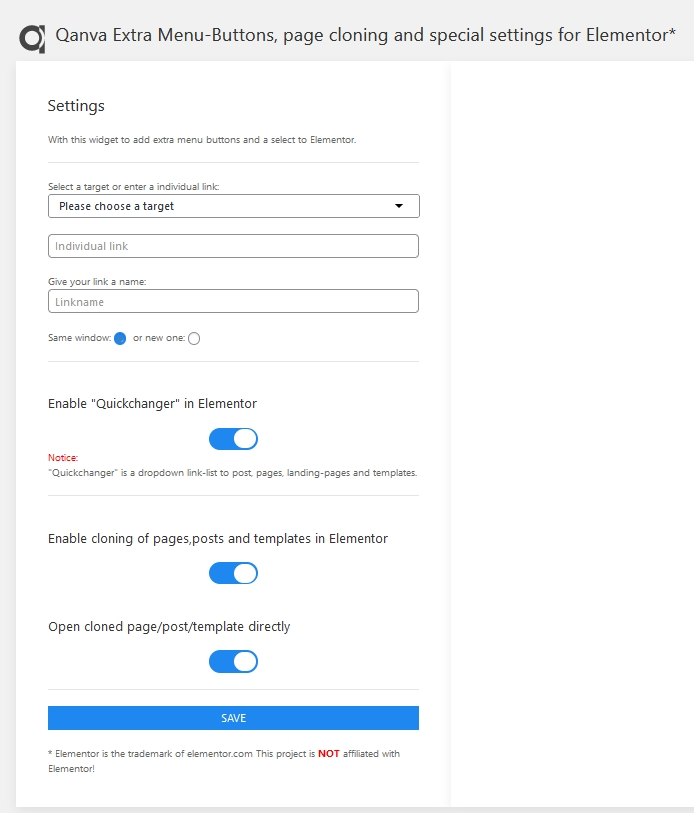
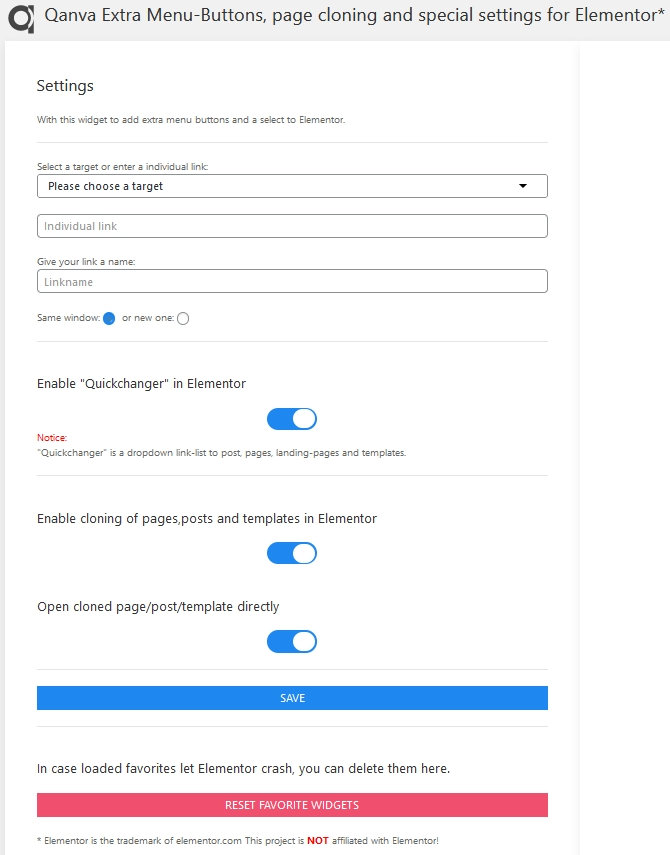
wp 583

diff --git a/js/qanvapower_back.js b/js/qanvapower_back.js
@@ -194,7 +194,8 @@ jQuery( document ).ready( function( $ ) {
 	}
 	var addbuttonstoelementormenucheck = setInterval( addbuttonstoelementormenu, 200 );
 	
-	setInterval(function(){
+	/* check and fix permalink */
+	function permacheckfunc(){
 		if(1 == $('#qanvanewpname').length){
 			var proofdash = $('#qanvanewpname').val();
 			if('-' == proofdash.substring(0,1)){
@@ -203,7 +204,19 @@ jQuery( document ).ready( function( $ ) {
 			proofdash = proofdash.toLowerCase().replace(/[^a-zA-Z0-9-]+/g, "");
 			$('#qanvanewpname').val(proofdash);
 		}
-				/* remove favorite get and set */
+	}
+
+	setInterval(function(){
+	 $('#qanvanewpname').on('focus',function(){
+			clearInterval(permacheck);
+  });	
+	 $('#qanvanewpname').on('focusout',function(){
+			permacheckfunc();
+		});
+	},100);
+	
+			/* remove favorite get and set */
+			var checkfavoritexist = setInterval(function(){
 				if(localStorage.getItem("qanva_favorites") != 1){
 					if(document.querySelector('.elementor-control-qanva_qpt_fav') !== null){
 						document.querySelector('.elementor-control-qanva_qpt_fav').remove();
@@ -213,15 +226,19 @@ jQuery( document ).ready( function( $ ) {
 					}
 					if(document.querySelector('.elementor-control-qanva_qpt_pw') !== null){
 						document.querySelector('.elementor-control-qanva_qpt_pw').remove();
+						clearInterval(checkfavoritexist);
 					}
 				}
-	},100);
+			},100);
 	
 			$(document).on('click','#qanvasaveperma',function(){
 				var parts = window.location.href.split('?');
-				var insertstring = $(document).find('#qanvanewpname').val(); 
+				var insertstring = $(document).find('#qanvanewpname').val();
+				if('' == insertstring){
+					return;
+				}
 					if('-' == insertstring.substring(insertstring.length - 1)){
-						var insertstring = insertstring.substring(0,insertstring.length - 1);
+					 insertstring = insertstring.substring(0,insertstring.length - 1);
 						$('#qanvanewpname').val(insertstring);
 					}
 					var data = {

diff --git a/controls/powertoolcontrols.php b/controls/powertoolcontrols.php
@@ -20,11 +20,19 @@ class Qanvapowerusertoolscontrols{
 			$page->start_controls_section(
 				'qanva_poweruser',
 				[
-					'label' => 'Poweruser tools',
+					'label' => 'Poweruser Tools',
 					'tab' => Controls_Manager::TAB_SETTINGS,
 				]
 			);
 
+				$page->add_control(
+					'control_qpt_widgets',
+					[
+						'label' => __( 'Widgets', 'qanva-powertools-for-elementor' ),
+						'type' => \Elementor\Controls_Manager::HEADING,
+					]
+				);
+				
 				$page->add_control(
 					'qanva_pt_use',
 					[
